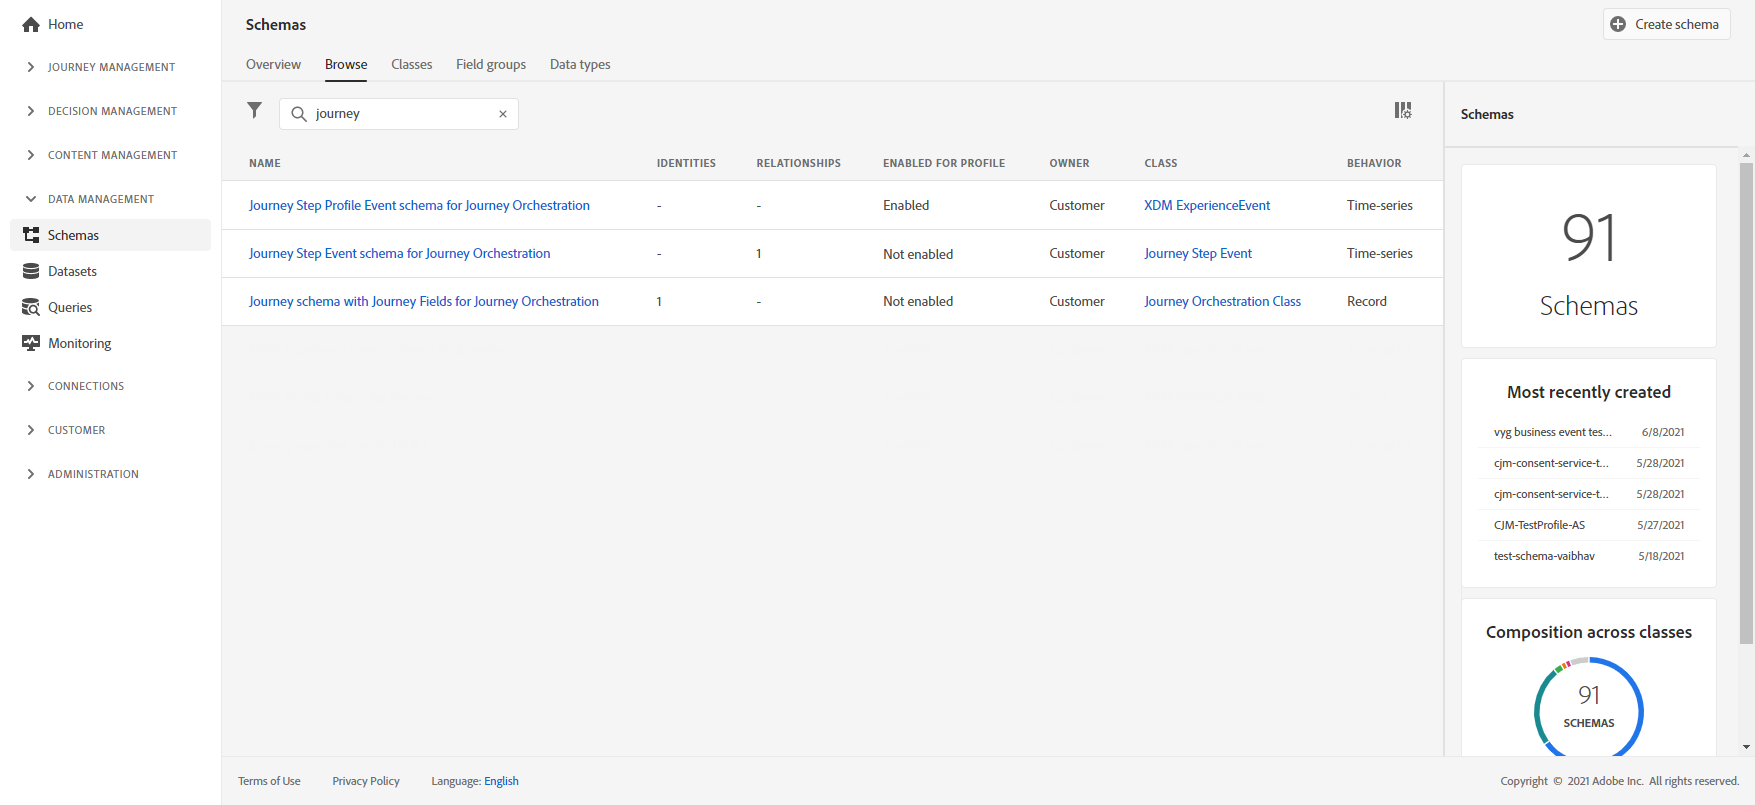
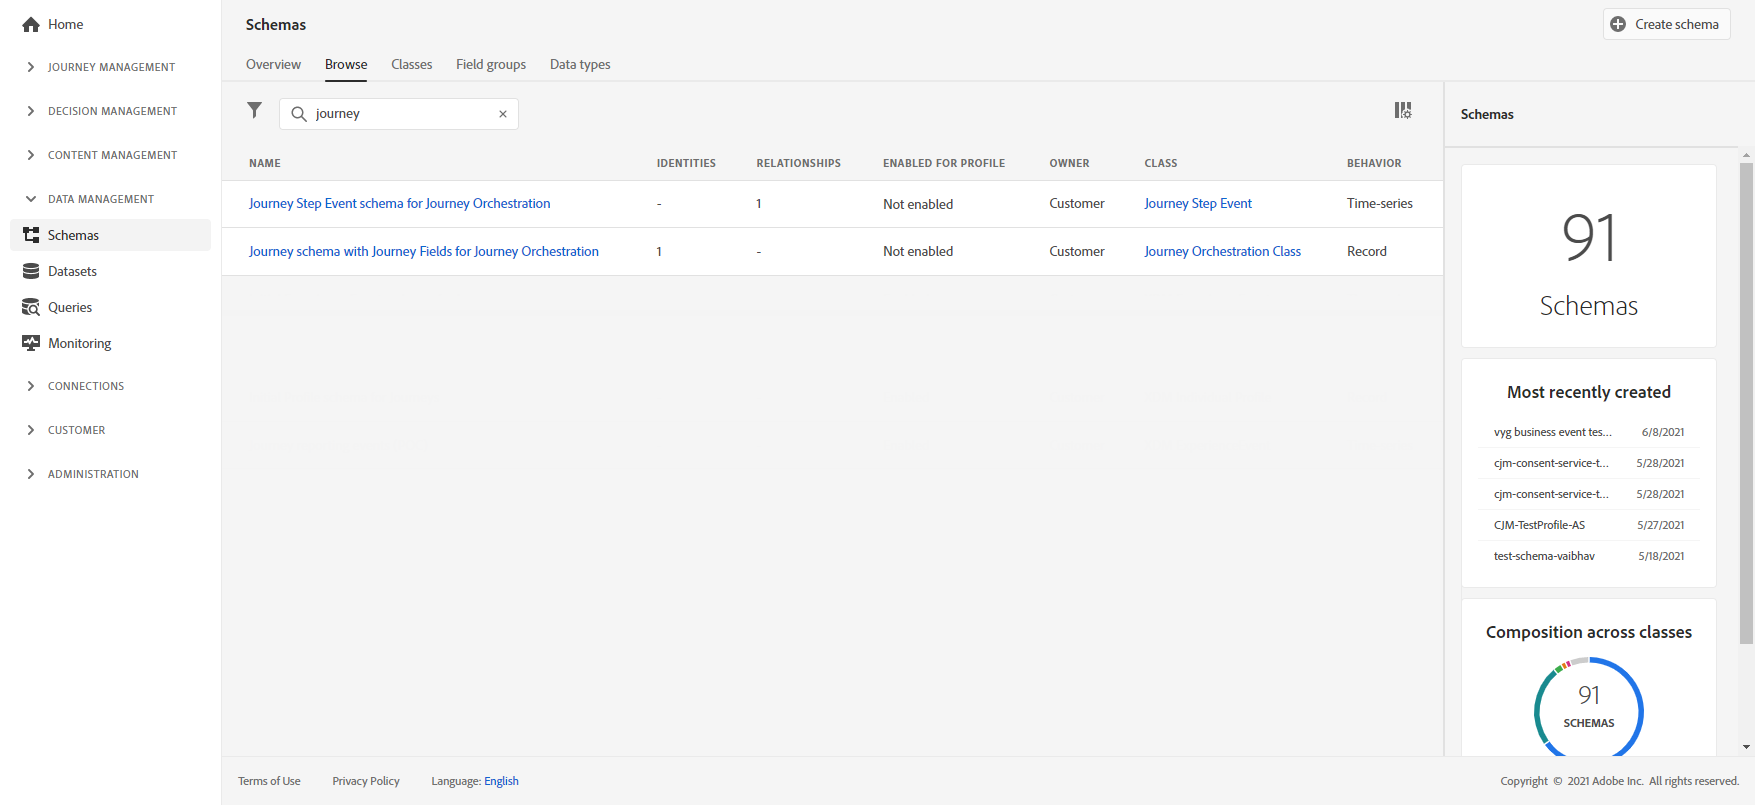
update for DOCAC-7306

diff --git a/help/using/reports/sharing-overview.md b/help/using/reports/sharing-overview.md
@@ -13,7 +13,7 @@ In addition to [real-time reports](live-report.md) and built-in [global reportin
 
 >[!NOTE]
 >
->This feature is activated by default on all instances for journey steps events. For journey profile step events, the activation is upon request. You cannot modify or update the schemas and datasets that have been created during provisioning for step events. By default, these schemas and datasets are in read-only mode.
+>This feature is activated by default on all instances for journey steps events. You cannot modify or update the schemas and datasets that have been created during provisioning for step events. By default, these schemas and datasets are in read-only mode.
 
 For example, you have set up a journey that sends multiple emails. This capability allows you to combine [!DNL Journey Optimizer] data with downstream event data like how many conversions occurred, how much engagement happened on the website, or how many transactions happened in the store. The journey information can be combined with data on Adobe Experience Platform, either from other digital properties or from offline properties to give a more comprehensive view of performance.
 
@@ -29,7 +29,6 @@ Journeys sends data as it occurs, in a streaming way. You can query this data us
 
 The following schemas are created:
 
-* Journey Step Profile Event schema for [!DNL Journey Orchestration] – Experience Events for steps taken in a Journey along with an Identity Map to be used for mapping to an individual Journey Participant.
 * Journey Step Event schema for [!DNL Journey Orchestration] – Journey step event that is tied to a Journey Metadata.
 * Journey schema with Journey Fields for [!DNL Journey Orchestration] – Journey Metadata to describe Journeys.
 
@@ -39,7 +38,6 @@ The following schemas are created:
 
 The following datasets are passed:
 
-* Journey Step Profile Event schema for [!DNL Journey Orchestration]
 * Journey Step Events
 * Journeys
 
